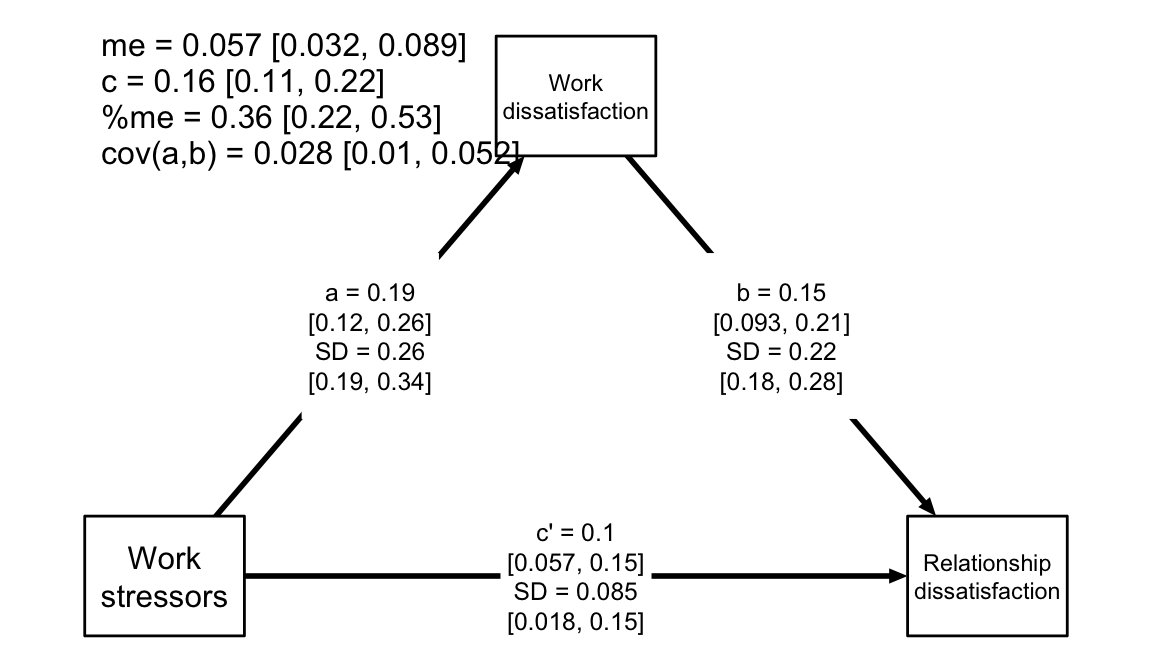
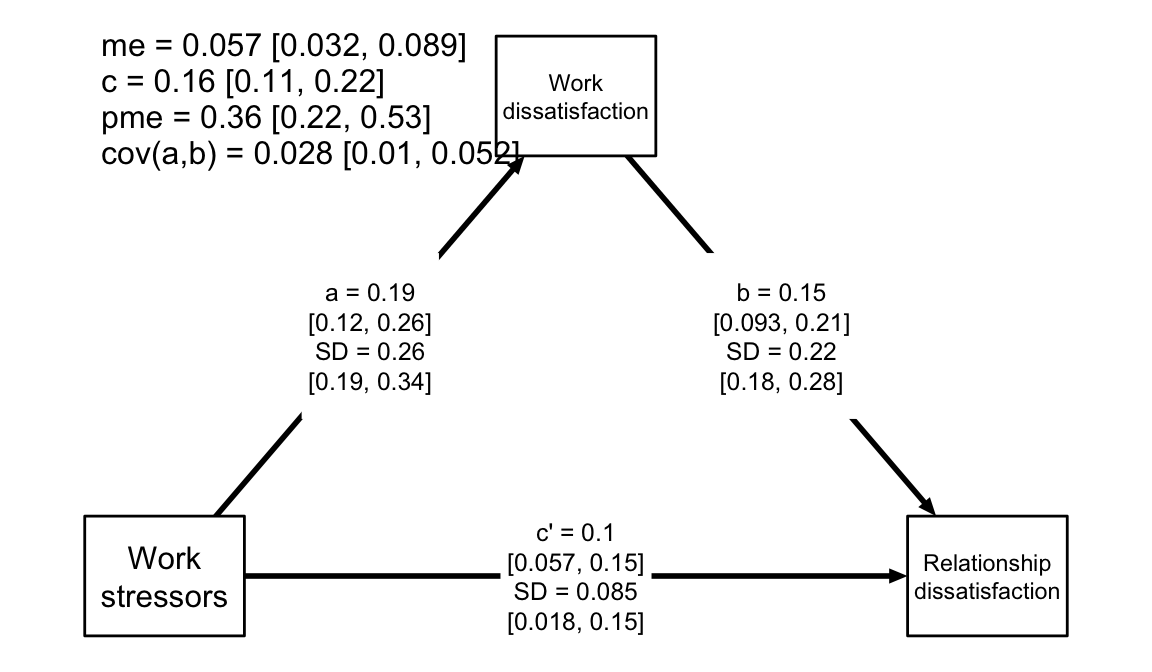
Change '%me' to 'pme' in output of mlm_path_plot(..., text= TRUE).

Changed region(s): [[0.0938, 0.1562, 0.375, 0.2188]]

diff --git a/docs/articles/Studies-Using-bmlm/Studies-Using-bmlm.html b/docs/articles/Studies-Using-bmlm/Studies-Using-bmlm.html
@@ -60,14 +60,14 @@
       <h1>Studies Using bmlm</h1>
                         <h4 class="author">Matti Vuorre</h4>
             
-            <h4 class="date">2017-08-15</h4>
+            <h4 class="date">2017-09-15</h4>
           </div>
 
     
     
 <div class="contents">
 <p>Sample of studies that have used bmlm.</p>
-<p><span class="citation">(Cohen et al. 2017)</span></p>
+<p>Prestimulus Activity in the Cingulo-Opercular Network Predicts Memory for Naturalistic Episodic Experience [<span class="citation">Cohen et al. (2017)</span>; bioRxiv].</p>
 <div id="refs" class="references">
 <div id="ref-cohen_prestimulus_2017">
 <p>Cohen, Noga, Aya Ben-Yakov, Jochen Weber, Micah Edelson, Rony Paz, and Yadin Dudai. 2017. “Prestimulus Activity in the Cingulo-Opercular Network Predicts Memory for Naturalistic Episodic Experience.” <em>bioRxiv</em>, August, 176057. doi:<a href="https://doi.org/10.1101/176057">10.1101/176057</a>.</p>

diff --git a/docs/articles/bmlm/bmlm.html b/docs/articles/bmlm/bmlm.html
@@ -60,7 +60,7 @@
       <h1>bmlm: Multilevel Mediation Modeling with Stan</h1>
                         <h4 class="author">Matti Vuorre</h4>
             
-            <h4 class="date">2017-08-15</h4>
+            <h4 class="date">2017-09-15</h4>
           </div>
 
     

diff --git a/docs/articles/Spaghetti-Plots/Spaghetti-Plots.html b/docs/articles/Spaghetti-Plots/Spaghetti-Plots.html
@@ -60,7 +60,7 @@
       <h1>A Note on bmlm’s Spaghetti Plots</h1>
                         <h4 class="author">Matti Vuorre</h4>
             
-            <h4 class="date">2017-08-15</h4>
+            <h4 class="date">2017-09-15</h4>
           </div>
 
     
